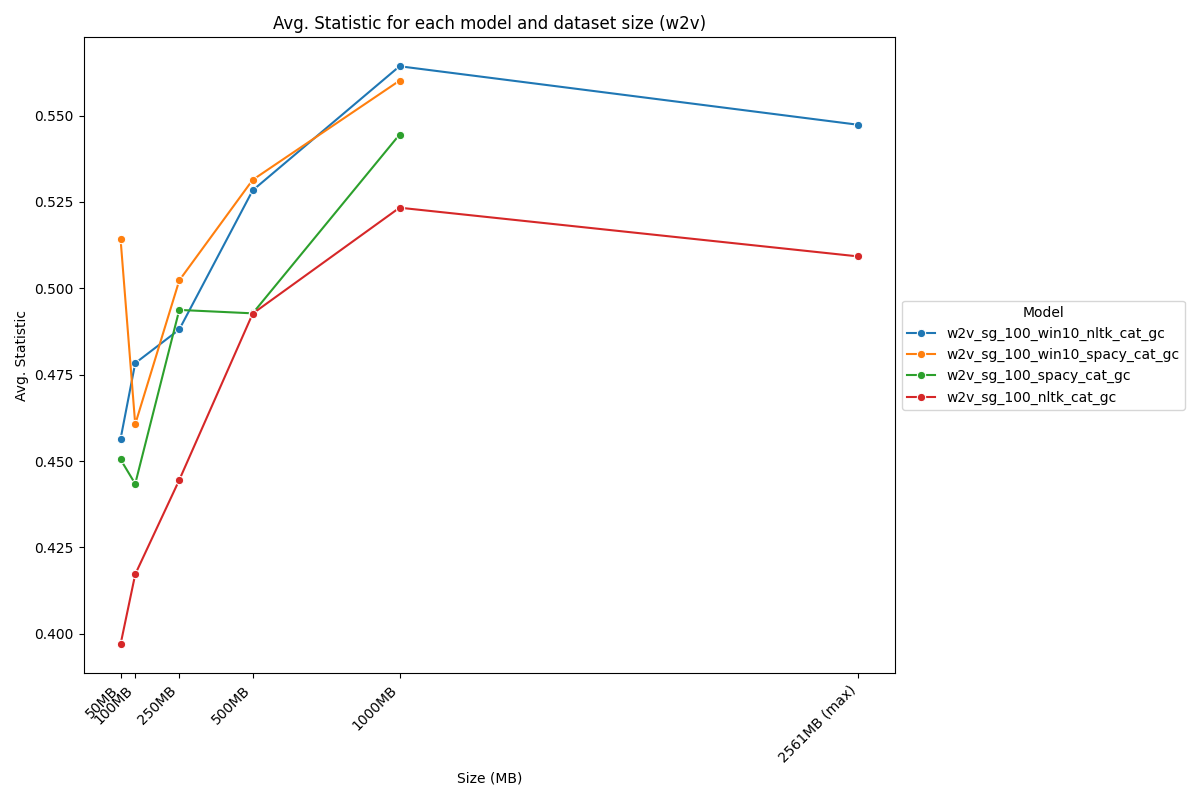
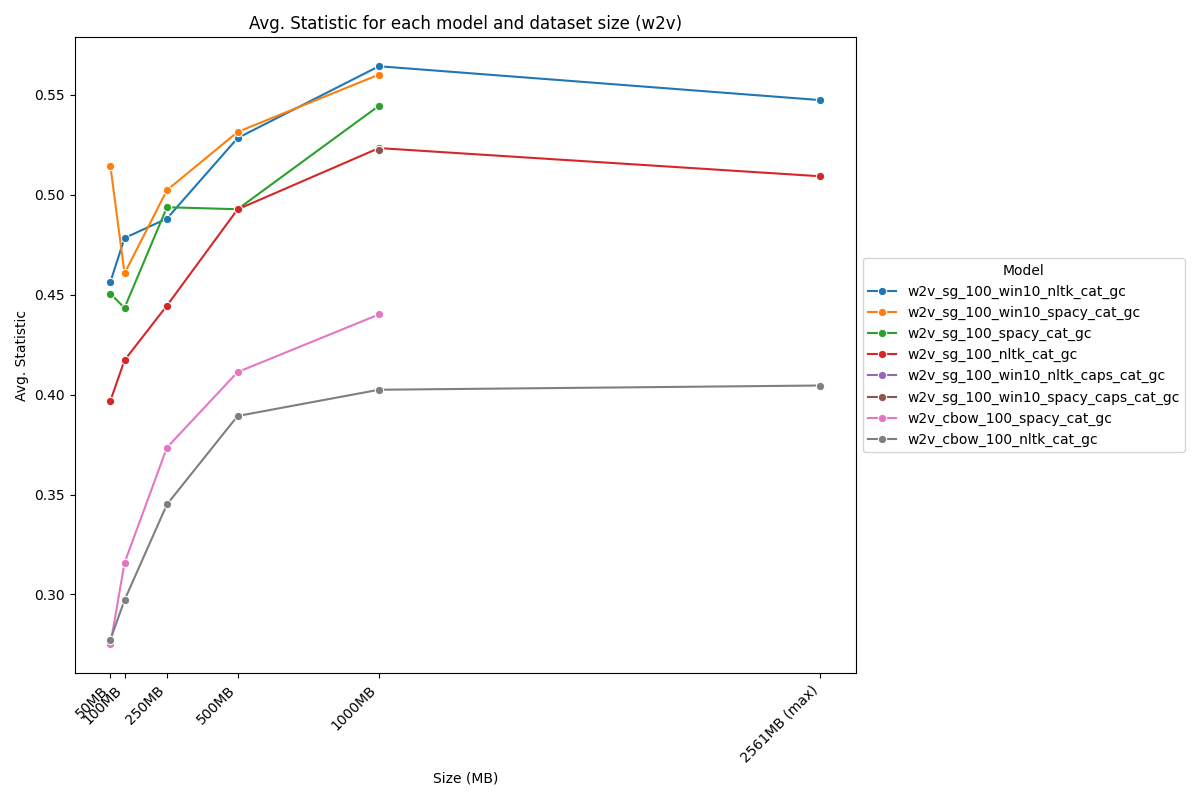
ADD better evaluation

diff --git a/evaluate_models.py b/evaluate_models.py
@@ -54,7 +54,7 @@ def evaluate_models(save: bool=True) -> pd.DataFrame:
 			'Pearson p-value': None, 
 			'Spearman': None, 
 			'Spearman p-value': None, 
-			'OOV (%)': None
+			'OOV Perc.': None
 			} for model_path in w2v_path_list + ft_path_list
 	}
 
@@ -74,7 +74,7 @@ def evaluate_models(save: bool=True) -> pd.DataFrame:
 			'Pearson p-value': p_pearson, 
 			'Spearman': spearman, 
 			'Spearman p-value': p_spearman, 
-			'OOV (%)': oov
+			'OOV Perc.': oov
 		}
 
 		counter += 1
@@ -94,7 +94,7 @@ def evaluate_models(save: bool=True) -> pd.DataFrame:
 			'Pearson p-value': p_pearson, 
 			'Spearman': spearman, 
 			'Spearman p-value': p_spearman, 
-			'OOV (%)': oov
+			'OOV Perc.': oov
 		}
 
 		counter += 1
@@ -106,7 +106,7 @@ def evaluate_models(save: bool=True) -> pd.DataFrame:
 	results_df = pd.DataFrame(results_dict).T
 
 	# Reorder the columns and sort the values by the 'Avg. Statistic' column
-	results_df = results_df[['Model', 'Avg. Statistic', 'Pearson', 'Spearman', 'OOV (%)', 'Pearson p-value', 'Spearman p-value']]
+	results_df = results_df[['Model', 'Avg. Statistic', 'Pearson', 'Spearman', 'OOV Perc.', 'Pearson p-value', 'Spearman p-value']]
 	results_df = results_df.sort_values(by='Avg. Statistic', ascending=False)
 
 	# Save the results to a CSV file
@@ -163,11 +163,11 @@ def generate_model_barplot(results_df: pd.DataFrame, metric: str, family: str='a
 	results_df : pd.DataFrame
 		The DataFrame containing the results of the evaluation.
 	metric : str
-		The metric to generate the barplot for. It can be one of ['Avg. Statistic', 'Pearson', 'Spearman', 'OOV (%)'].
+		The metric to generate the barplot for. It can be one of ['Avg. Statistic', 'Pearson', 'Spearman', 'OOV Perc.'].
 	family : str, optional
 		The family of models to generate the barplot for. It can be one of ['all', 'w2v', 'ft']. The default is 'all'.
 	"""
-	assert metric in ['Avg. Statistic', 'Pearson', 'Spearman', 'OOV (%)'], f"Invalid metric '{metric}'. Must be one of ['Avg. Statistic', 'Pearson', 'Spearman', 'OOV (%)']."
+	assert metric in ['Avg. Statistic', 'Pearson', 'Spearman', 'OOV Perc.'], f"Invalid metric '{metric}'. Must be one of ['Avg. Statistic', 'Pearson', 'Spearman', 'OOV Perc.']."
 	assert family in ['all', 'w2v', 'ft'], f"Invalid family '{family}'. Must be one of ['all', 'w2v', 'ft']."
 
 	# Filter the dataframe by the family of models
@@ -178,8 +178,8 @@ def generate_model_barplot(results_df: pd.DataFrame, metric: str, family: str='a
 	else:
 		results_filtered_df = results_df.copy()
 
-	# Sort the values by the metric (descending order, except for 'OOV (%)')
-	results_filtered_df = results_filtered_df.sort_values(by=metric, ascending=(metric == 'OOV (%)'))
+	# Sort the values by the metric (descending order, except for 'OOV Perc.')
+	results_filtered_df = results_filtered_df.sort_values(by=metric, ascending=(metric == 'OOV Perc.'))
 
 	# Remove .model from the model names
 	results_filtered_df['Model'] = results_filtered_df['Model'].apply(lambda x: x.removesuffix('.model'))
@@ -204,11 +204,11 @@ def generate_tokenizer_barplot(results_df: pd.DataFrame, metric: str, family: st
 	results_df : pd.DataFrame
 		The DataFrame containing the results of the evaluation.
 	metric : str
-		The metric to generate the barplot for. It can be one of ['Avg. Statistic', 'Pearson', 'Spearman', 'OOV (%)'].
+		The metric to generate the barplot for. It can be one of ['Avg. Statistic', 'Pearson', 'Spearman', 'OOV Perc.'].
 	family : str
 		The family of models to generate the barplot for. It can be one of ['all', 'w2v', 'ft'].
 	"""
-	assert metric in ['Avg. Statistic', 'Pearson', 'Spearman', 'OOV (%)'], f"Invalid metric '{metric}'. Must be one of ['Avg. Statistic', 'Pearson', 'Spearman', 'OOV (%)']."
+	assert metric in ['Avg. Statistic', 'Pearson', 'Spearman', 'OOV Perc.'], f"Invalid metric '{metric}'. Must be one of ['Avg. Statistic', 'Pearson', 'Spearman', 'OOV Perc.']."
 	assert family in ['all', 'w2v', 'ft'], f"Invalid family '{family}'. Must be one of ['all', 'w2v', 'ft']."
 
 	# Filter the dataframe by the family of models
@@ -245,11 +245,11 @@ def generate_size_plot(results_df: pd.DataFrame, metric: str, family: str) -> No
 	results_df : pd.DataFrame
 		The DataFrame with the evaluation results of the models.
 	metric : str
-		The metric to generate the barplot for. It can be one of ['Avg. Statistic', 'Pearson', 'Spearman', 'OOV (%)'].
+		The metric to generate the barplot for. It can be one of ['Avg. Statistic', 'Pearson', 'Spearman', 'OOV Perc.'].
 	family : str
 		The family of models to generate the barplot for. It can be one of ['all', 'w2v', 'ft'].
 	"""
-	assert metric in ['Avg. Statistic', 'Pearson', 'Spearman', 'OOV (%)'], f"Invalid metric '{metric}'. Must be one of ['Avg. Statistic', 'Pearson', 'Spearman', 'OOV (%)']."
+	assert metric in ['Avg. Statistic', 'Pearson', 'Spearman', 'OOV Perc.'], f"Invalid metric '{metric}'. Must be one of ['Avg. Statistic', 'Pearson', 'Spearman', 'OOV Perc.']."
 	assert family in ['all', 'w2v', 'ft'], f"Invalid family '{family}'. Must be one of ['all', 'w2v', 'ft']."
 
 	# Filter the dataframe by the family of models
@@ -296,11 +296,11 @@ def generate_vectorizer_barplot(results_df: pd.DataFrame, metric: str, compare: 
 	results_df : pd.DataFrame
 		The DataFrame containing the results of the evaluation.
 	metric : str
-		The metric to generate the barplot for. It can be one of ['Avg. Statistic', 'Pearson', 'Spearman', 'OOV (%)'].
+		The metric to generate the barplot for. It can be one of ['Avg. Statistic', 'Pearson', 'Spearman', 'OOV Perc.'].
 	compare : list[str]|tuple[str]
 		The vectorizers to compare. Can be one of ['w2v_sg', 'w2v_cbow', 'ft_sg', 'ft_cbow']. The default is ['w2v', 'ft'].
 	"""
-	assert metric in ['Avg. Statistic', 'Pearson', 'Spearman', 'OOV (%)'], f"Invalid metric '{metric}'. Must be one of ['Avg. Statistic', 'Pearson', 'Spearman', 'OOV (%)']."
+	assert metric in ['Avg. Statistic', 'Pearson', 'Spearman', 'OOV Perc.'], f"Invalid metric '{metric}'. Must be one of ['Avg. Statistic', 'Pearson', 'Spearman', 'OOV Perc.']."
 
 	# Filter the dataframe by the family of models
 	results_filtered_df = results_df[results_df['Model'].str.startswith(compare[0]) | results_df['Model'].str.startswith(compare[1])]
@@ -311,7 +311,7 @@ def generate_vectorizer_barplot(results_df: pd.DataFrame, metric: str, compare: 
 	average_vectorizer_df = results_filtered_df[['Vectorizer', metric]].groupby('Vectorizer').mean().reset_index()
 
 	# Generate the barplot
-	plt.figure(figsize=(10, 6))
+	plt.figure(figsize=(8, 6))
 	sns.barplot(x='Vectorizer', y=metric, data=average_vectorizer_df)
 	plt.xticks(rotation=45, ha='right')
 	plt.xlabel('Vectorizer')
@@ -328,8 +328,8 @@ if __name__ == '__main__':
 	# Evaluate the models
 	results_df = evaluate_models()
 
-	hide_win10 = True
-	hide_caps = True
+	hide_win10 = False
+	hide_caps = False
 	hide_cbow = False
 
 	# Filter the results by the negative keywords
@@ -345,7 +345,7 @@ if __name__ == '__main__':
 		os.remove(os.path.join('./results/plots/', file))
 
 	# Define the metrics and families
-	metrics = ['Avg. Statistic', 'Pearson', 'Spearman', 'OOV (%)']
+	metrics = ['Avg. Statistic', 'Pearson', 'Spearman', 'OOV Perc.']
 	different_vectorizers = results_df['Model'].apply(lambda x: '_'.join(x.split('_')[:2])).unique()
 	available_families = []
 	bool_w2v, bool_ft = False, False
